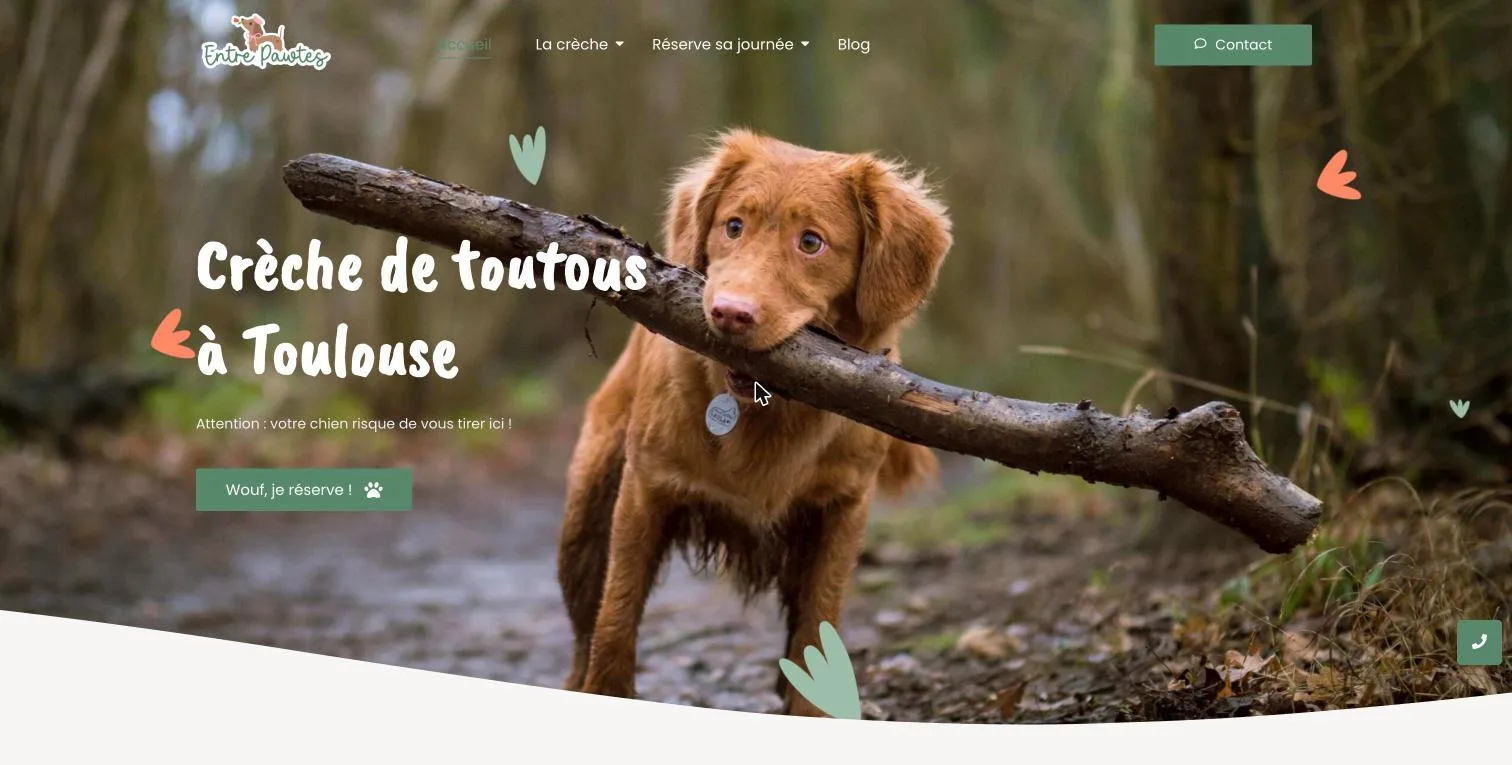
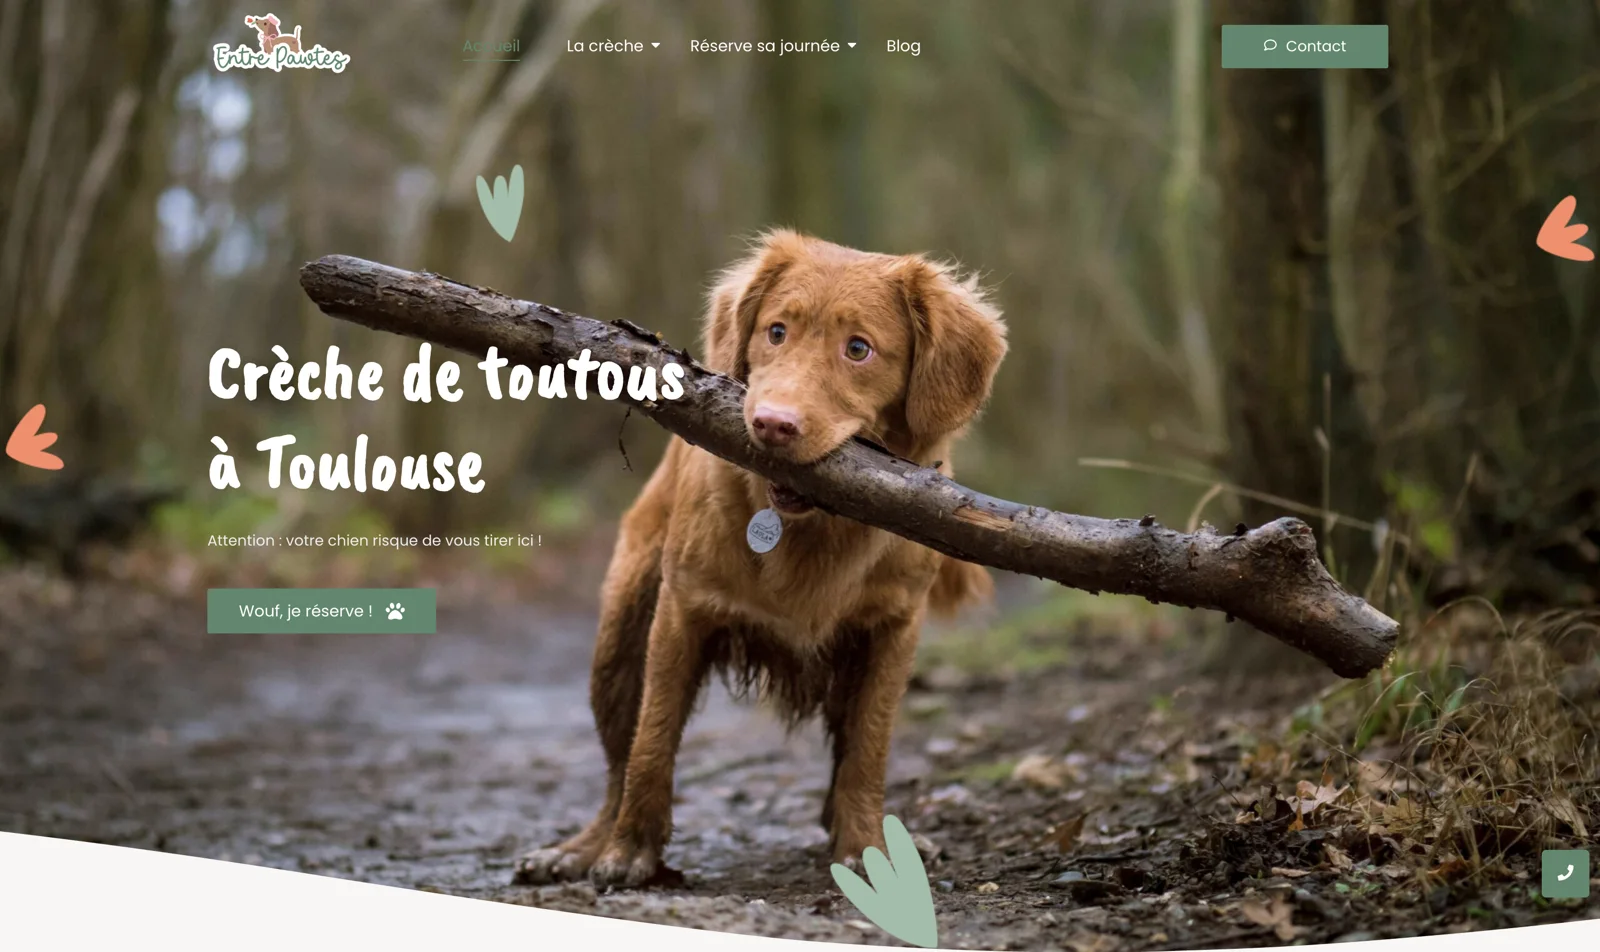
Labo : nouvelles captures Entre Pawtes
Claude-Session: https://claude.ai/code/session_01PCZtoaRiJKjqgaF7xpctFD

diff --git a/labo.html b/labo.html
@@ -160,7 +160,7 @@
     <article class="projet-labo" data-cat="web" id="pawtes">
       <div class="etiquettes"><span>École</span><span>Site web</span></div>
       <div class="chap"><h2>Entre Pawtes</h2><div><p class="brief"><b>Le brief :</b> créer et animer le site d'une crèche pour chiens à Toulouse, du design aux textes.</p><ul class="competences"><li>Webdesign</li><li>Rédaction web</li><li>Animation</li><li>WordPress</li></ul></div></div>
-      <div class="g-libre"><a class="zoom " href="assets/img/labo/pawtes/accueil.webp"><img src="assets/img/labo/pawtes/accueil.webp" alt="Accueil du site Entre Pawtes" loading="lazy"></a><a class="zoom " href="assets/img/labo/pawtes/tarifs.webp"><img src="assets/img/labo/pawtes/tarifs.webp" alt="Les formules et tarifs" loading="lazy"></a><a class="zoom " href="assets/img/labo/pawtes/newsletter.webp"><img src="assets/img/labo/pawtes/newsletter.webp" alt="Inscription à la newsletter" loading="lazy"></a></div>
+      <div class="g-libre"><a class="zoom " href="assets/img/labo/pawtes/accueil.webp"><img src="assets/img/labo/pawtes/accueil.webp" alt="Accueil du site Entre Pawtes : Crèche de toutous à Toulouse" loading="lazy"></a><a class="zoom " href="assets/img/labo/pawtes/apropos.webp"><img src="assets/img/labo/pawtes/apropos.webp" alt="Section À propos avec une mosaïque de chiens" loading="lazy"></a><a class="zoom " href="assets/img/labo/pawtes/faq.webp"><img src="assets/img/labo/pawtes/faq.webp" alt="Questions de pawtes : la FAQ en accordéon" loading="lazy"></a></div>
     </article>
 
     <article class="projet-labo" data-cat="strategie" id="bfc">

diff --git a/outils/build.py b/outils/build.py
@@ -451,7 +451,7 @@ labo += f"""  <div class="ouv" style="min-height:62svh">
     <article class="projet-labo" data-cat="web" id="pawtes">
       <div class="etiquettes"><span>École</span><span>Site web</span></div>
       <div class="chap"><h2>Entre Pawtes</h2><div><p class="brief"><b>Le brief :</b> créer et animer le site d'une crèche pour chiens à Toulouse, du design aux textes.</p><ul class="competences"><li>Webdesign</li><li>Rédaction web</li><li>Animation</li><li>WordPress</li></ul></div></div>
-      <div class="g-libre">{z("assets/img/labo/pawtes/accueil.webp", "Accueil du site Entre Pawtes")}{z("assets/img/labo/pawtes/tarifs.webp", "Les formules et tarifs")}{z("assets/img/labo/pawtes/newsletter.webp", "Inscription à la newsletter")}</div>
+      <div class="g-libre">{z("assets/img/labo/pawtes/accueil.webp", "Accueil du site Entre Pawtes : Crèche de toutous à Toulouse")}{z("assets/img/labo/pawtes/apropos.webp", "Section À propos avec une mosaïque de chiens")}{z("assets/img/labo/pawtes/faq.webp", "Questions de pawtes : la FAQ en accordéon")}</div>
     </article>
 
     <article class="projet-labo" data-cat="strategie" id="bfc">
